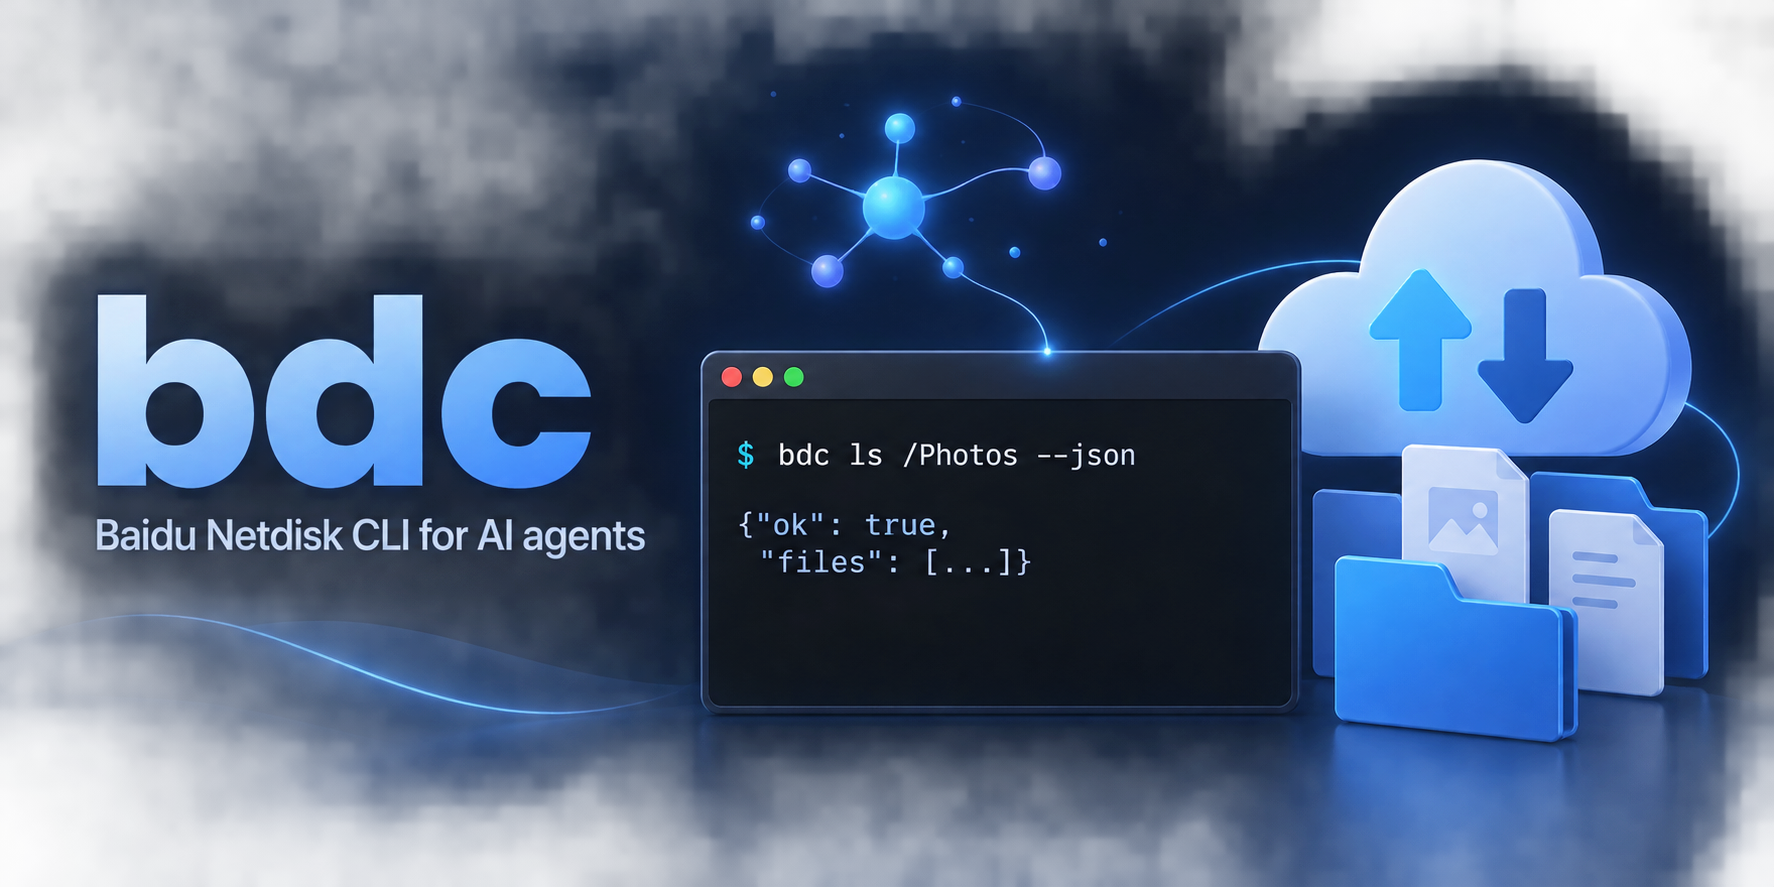
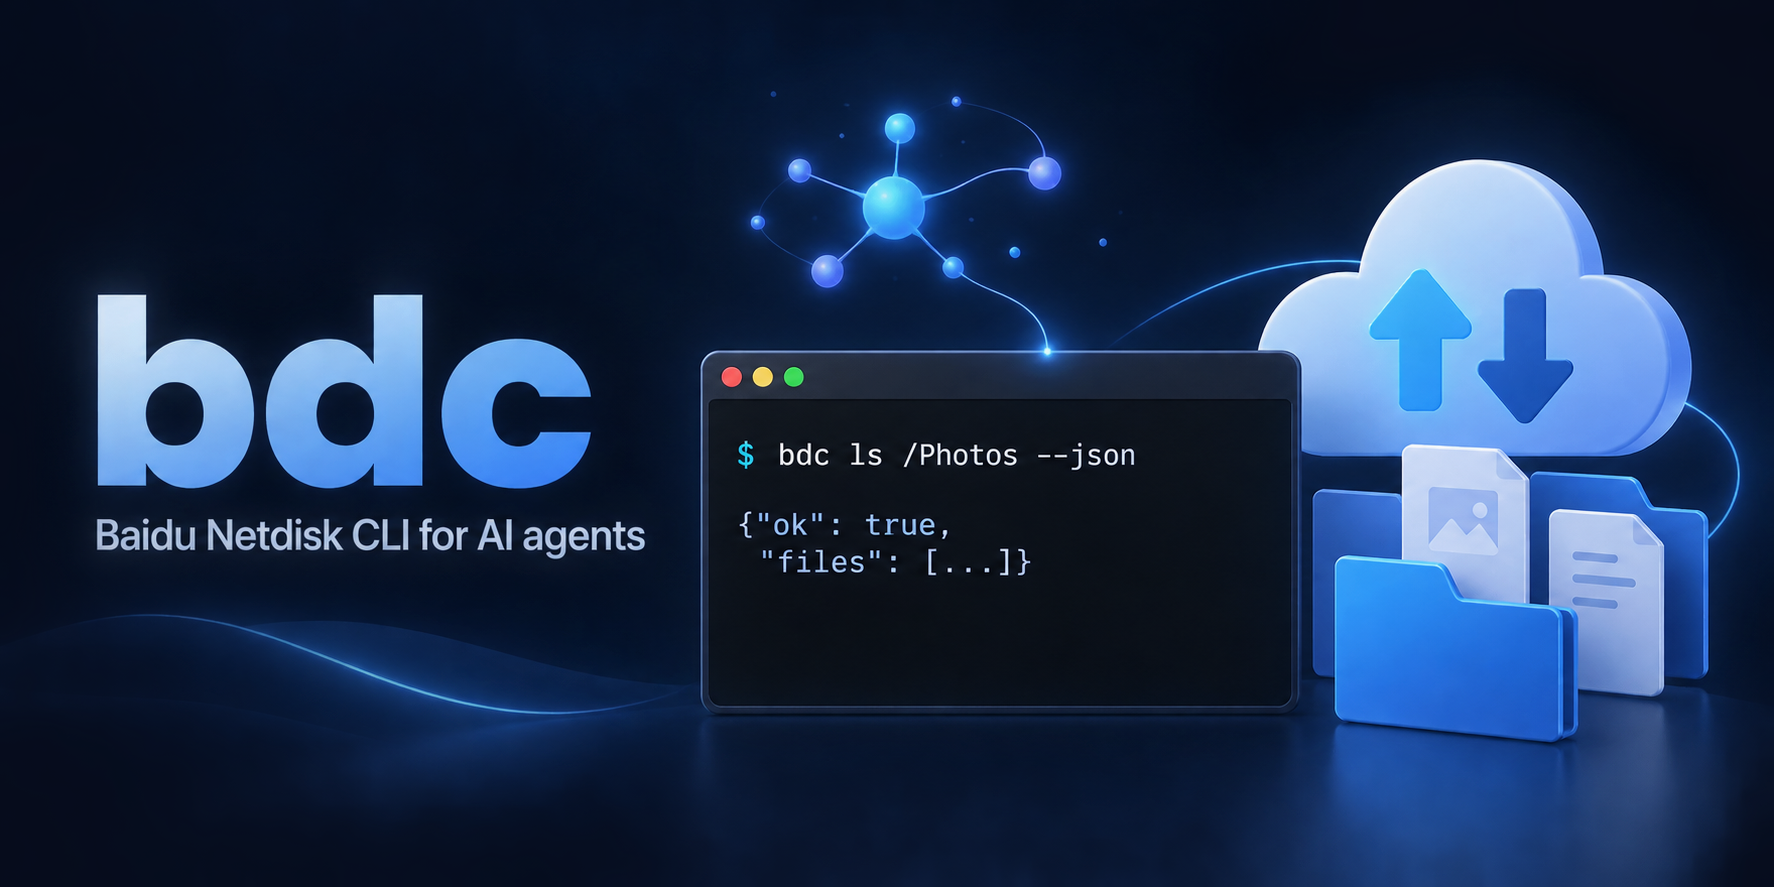
docs: 头图改为不透明背景; README 中过长的代码行缩短

diff --git a/README.md b/README.md
@@ -27,7 +27,7 @@ $ bdc upload --json ~/Photos/2026 /Backup
 {"ok": true, "summary": {"rapid": 37, "uploaded": 212}, "files": [ … ]}
 
 $ bdc share create --json --days 7 /Backup/2026
-{"ok": true, "link": "https://pan.baidu.com/s/1AbCdEf", "pwd": "k7x2", "url": "https://pan.baidu.com/s/1AbCdEf?pwd=k7x2", … }
+{"ok": true, "url": "https://pan.baidu.com/s/1AbCdEf?pwd=k7x2", "pwd": "k7x2", … }
 ```
 
 > **Agent:** Done. 249 photos are in `/Backup/2026`; 37 of them were already stored on Baidu and went up instantly. Here's the link: https://pan.baidu.com/s/1AbCdEf?pwd=k7x2 (valid for 7 days).
@@ -86,7 +86,8 @@ bdc login --from-chrome        # or --from-edge, or paste cookies at the prompt 
 Add one line to your `AGENTS.md` or `CLAUDE.md`:
 
 ```text
-For Baidu Netdisk, use `bdc` with `--json`. Read https://github.com/ac1982/bdc/blob/main/llms.txt first.
+For Baidu Netdisk, use `bdc --json`.
+Read https://github.com/ac1982/bdc/blob/main/llms.txt first.
 ```
 
 [`llms.txt`](llms.txt) is a short manual written for models: the output format, what each exit code means, and the rules for every command.
